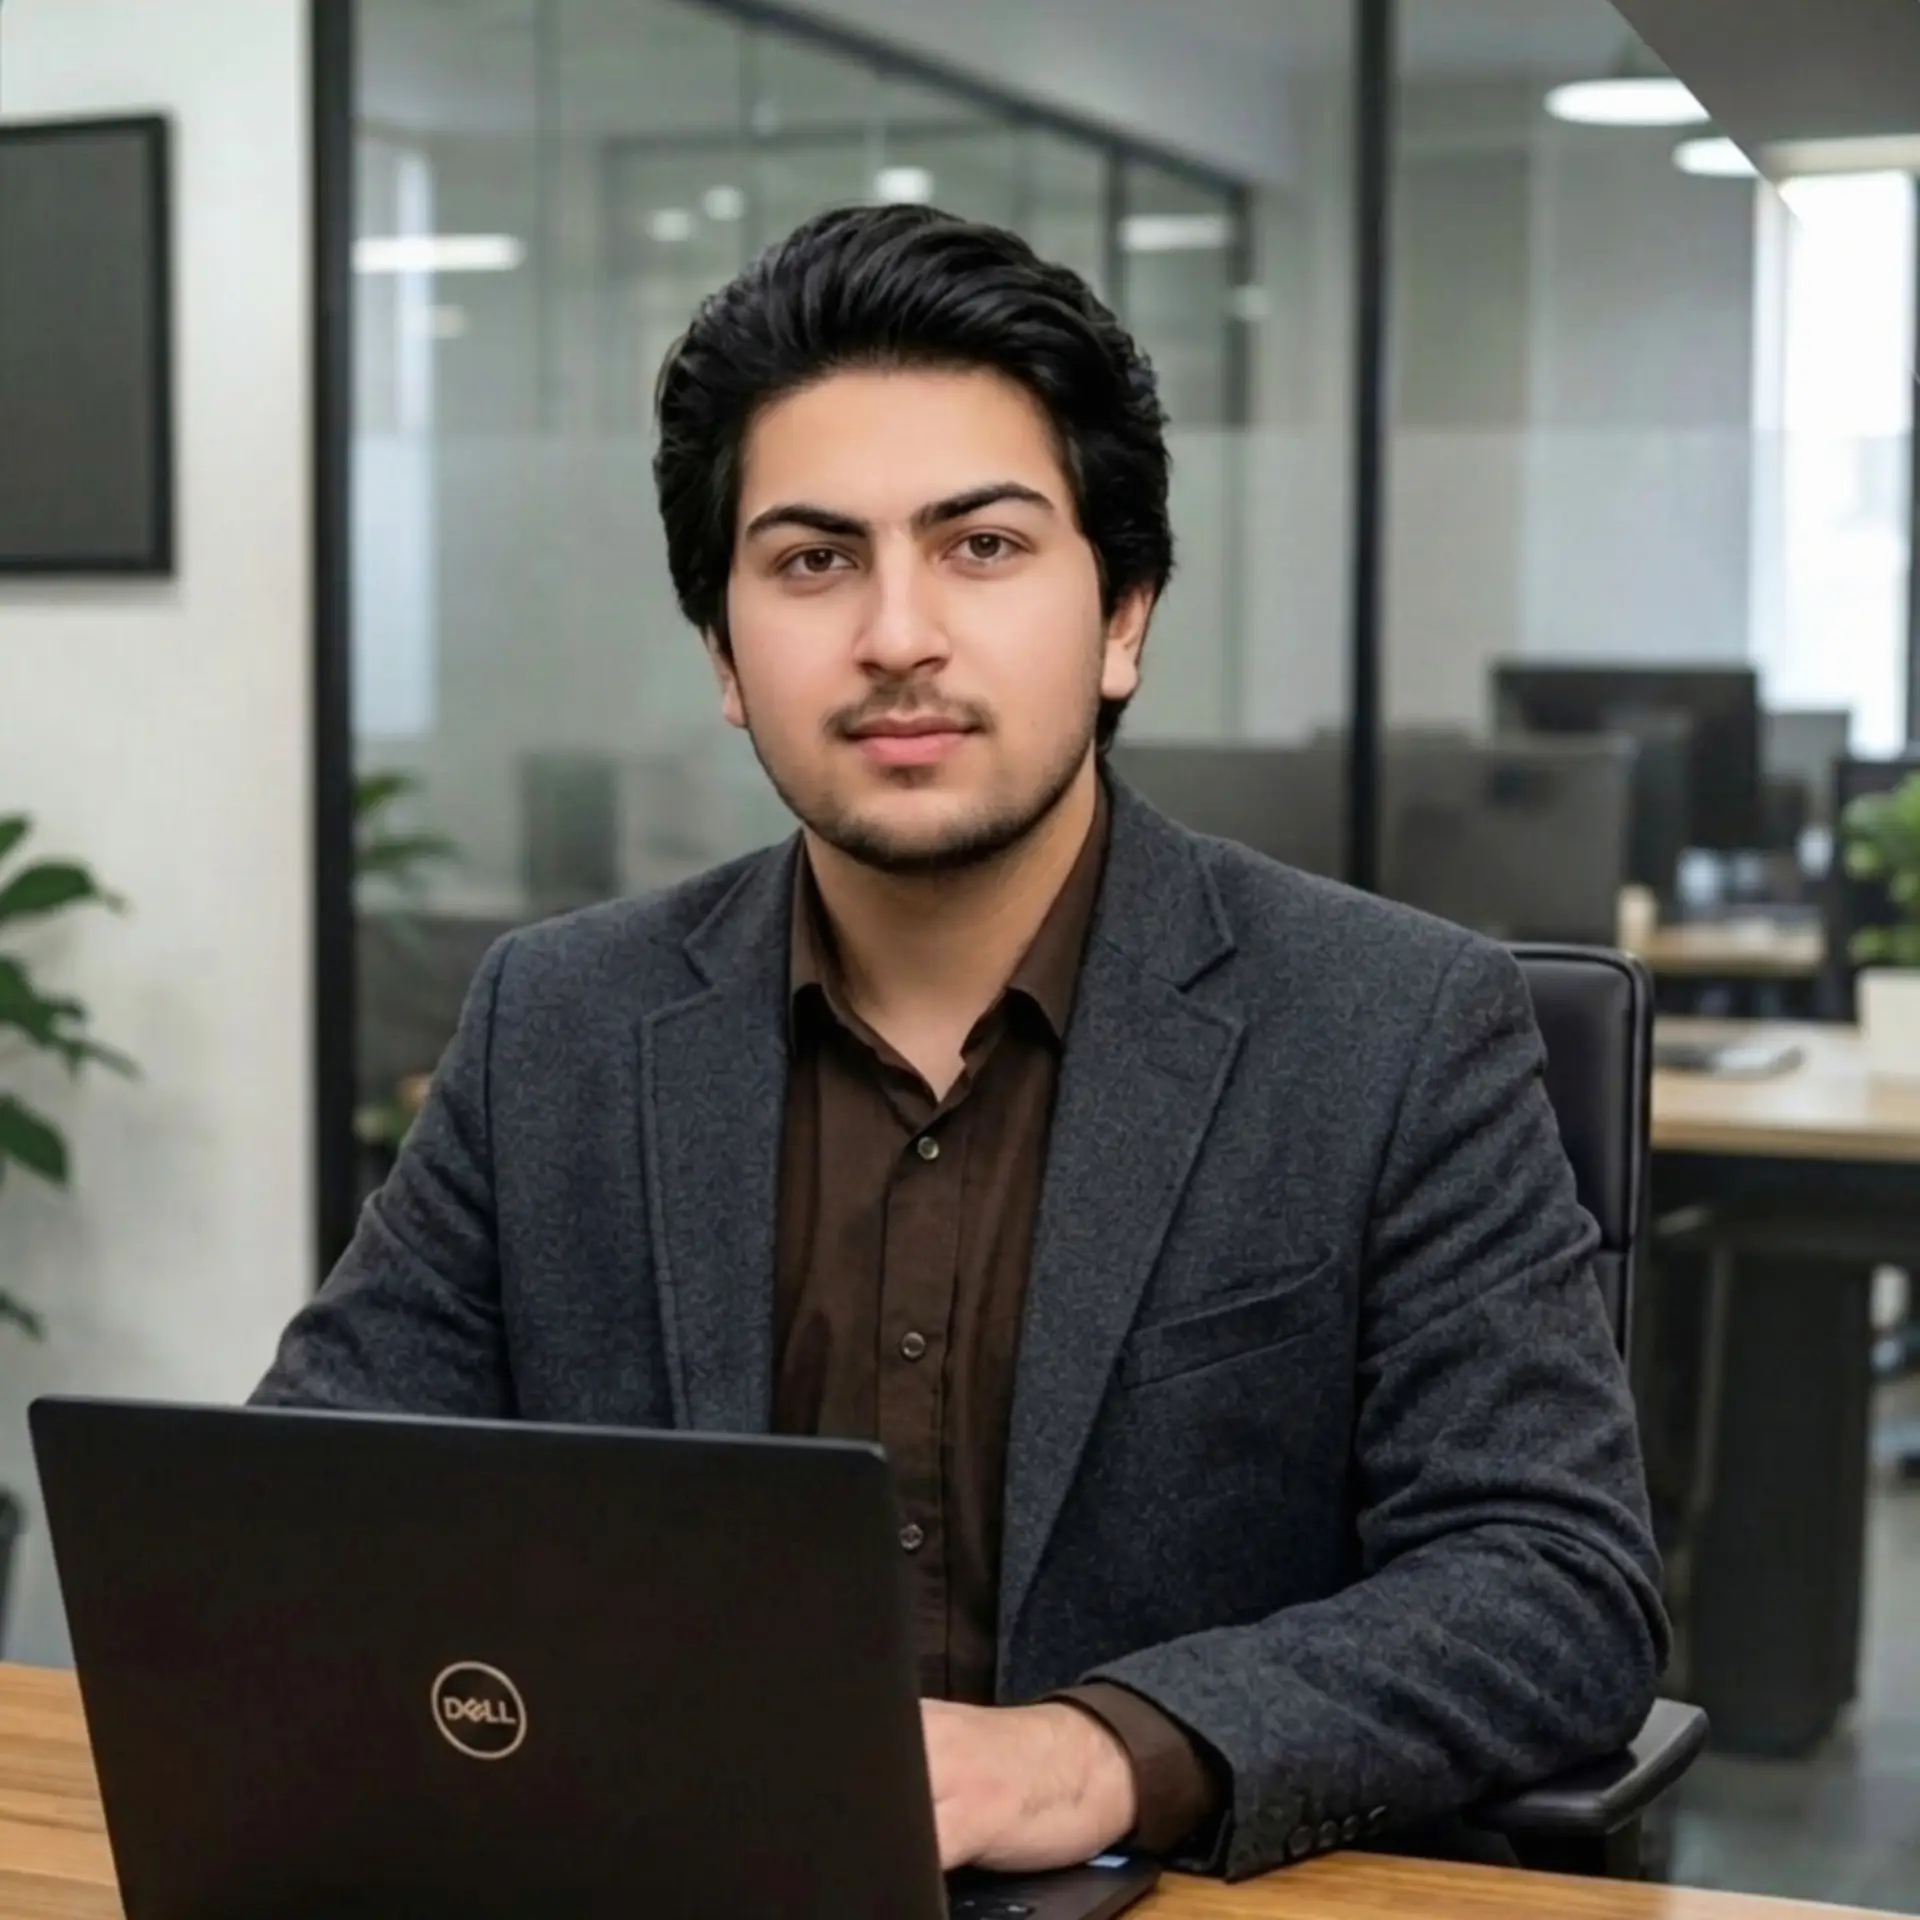
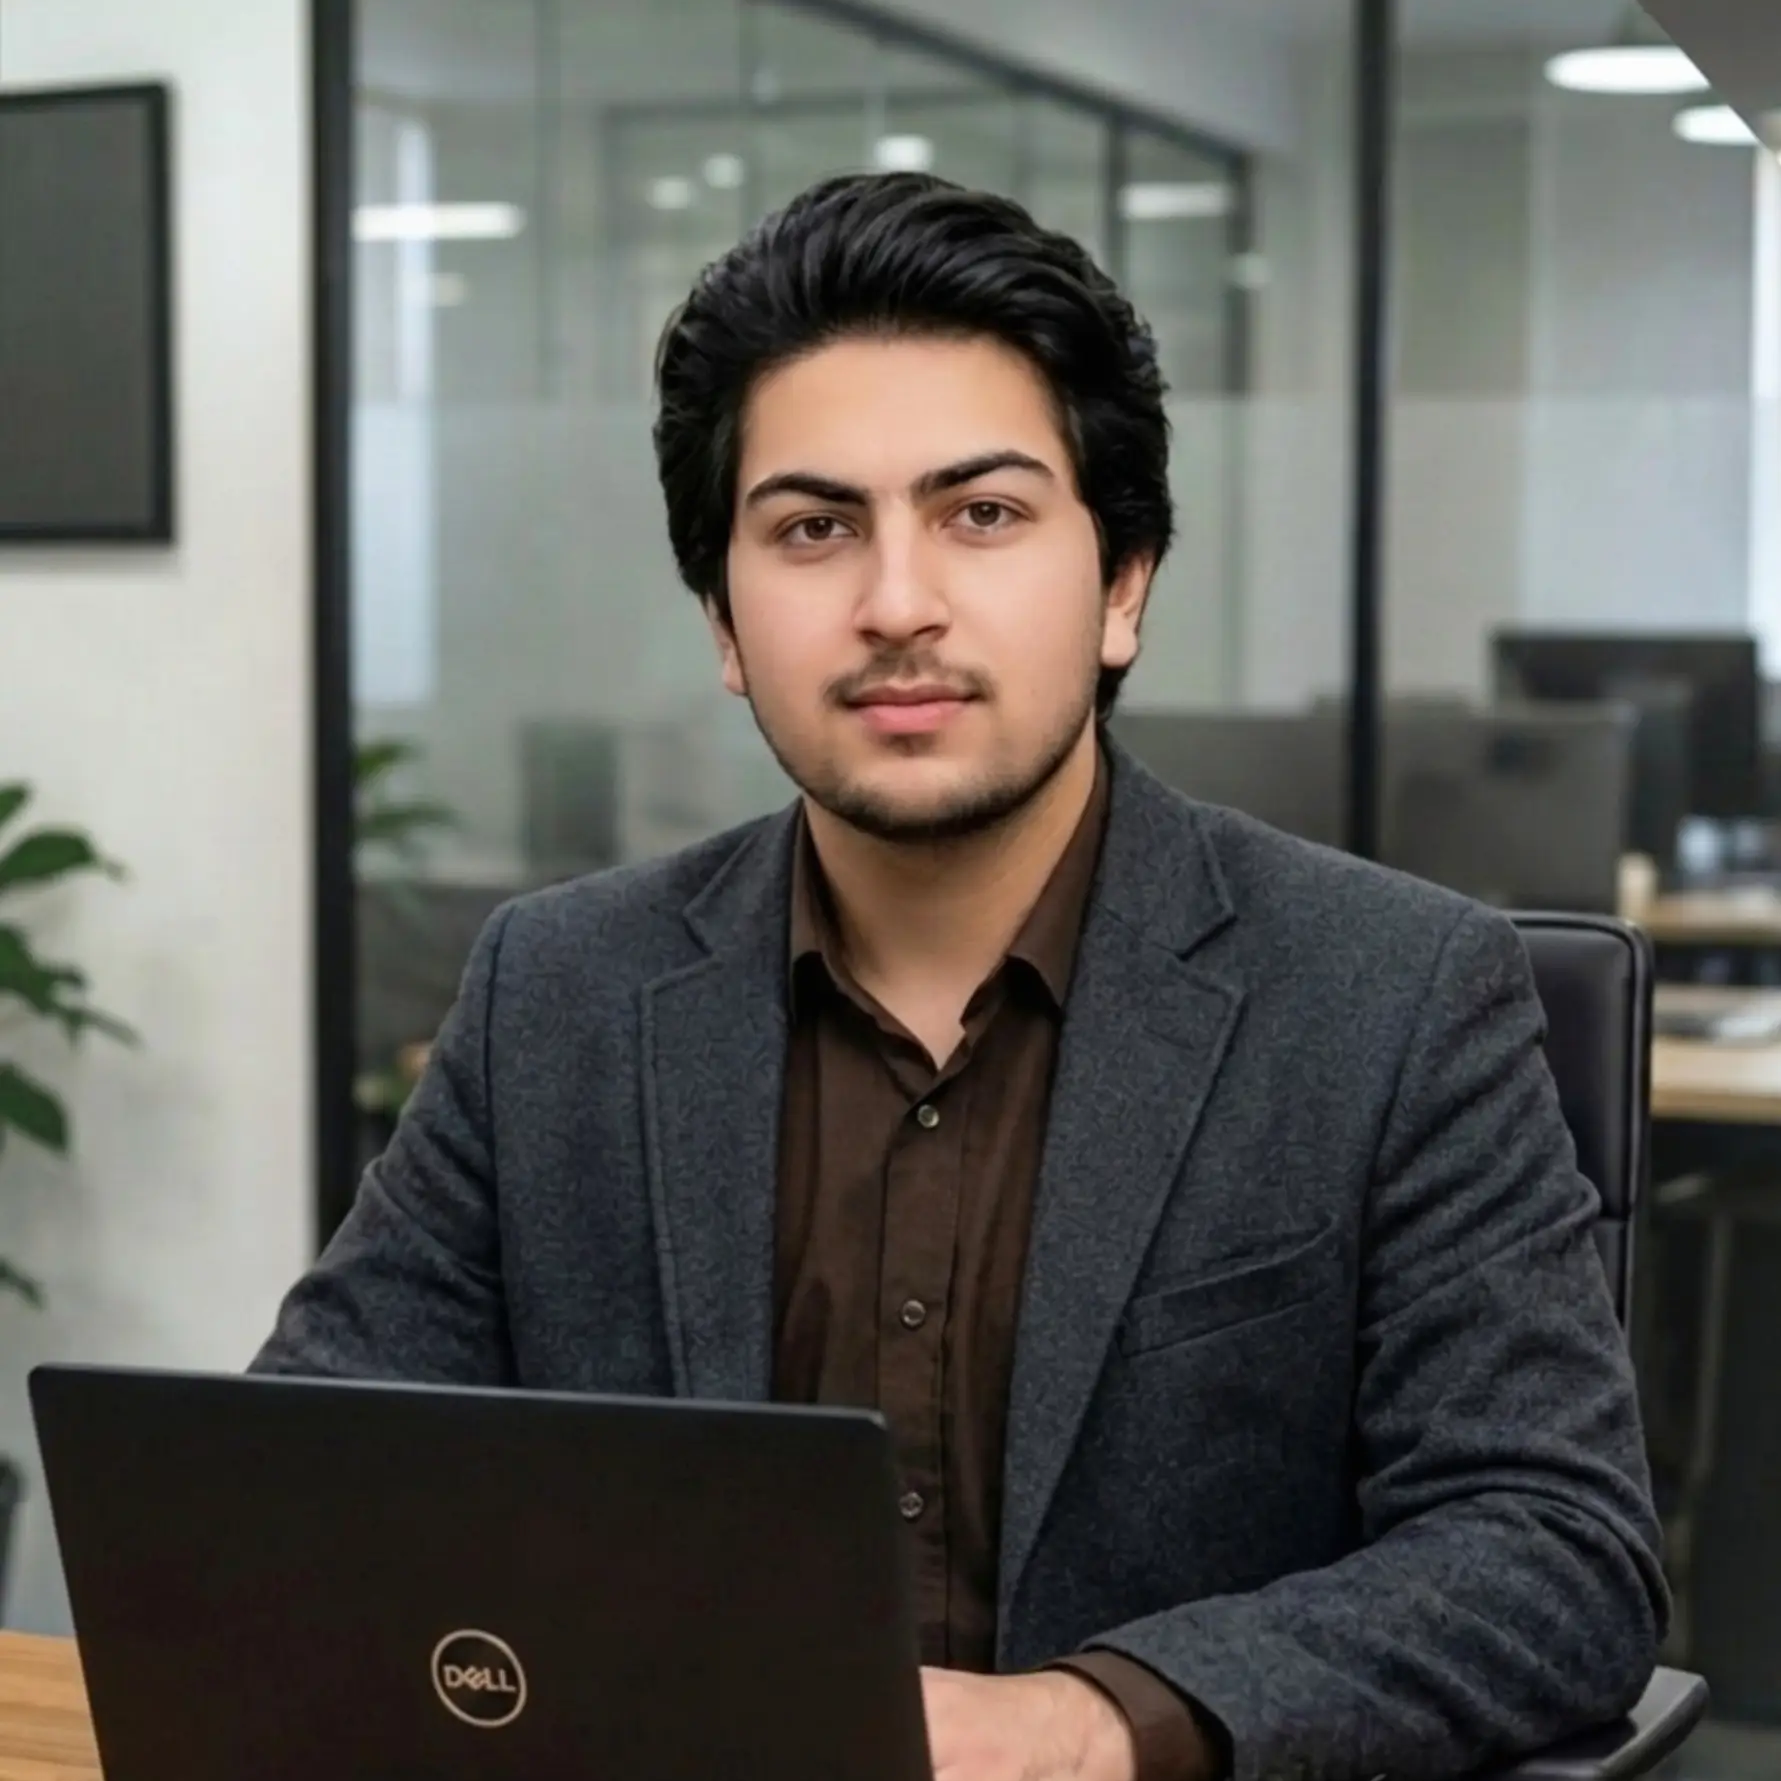
update

diff --git a/src/sections/Hero.jsx b/src/sections/Hero.jsx
@@ -8,9 +8,9 @@ function Hero() {
 
   const professions = [
     "Digital Marketer",
-    "Social Media Marketer",
-    "Paid Advertising Specialist",
-    "Social Media Manager"
+    "Social Media Manager",
+    "Paid Advertiser",
+    "Social Media Marketer"
   ];
 
   const [professionIndex, setProfessionIndex] = useState(0);

diff --git a/src/styles/index.css b/src/styles/index.css
@@ -12,9 +12,9 @@ body{
 .container-custom{
   width:100%;
   max-width:1280px;
-  margin:auto;
-  padding-left:24px;
-  padding-right:24px;
+  margin:0 auto;
+  padding-inline:clamp(16px,4vw,24px);
+  box-sizing:border-box;
 }
 body{
     background: